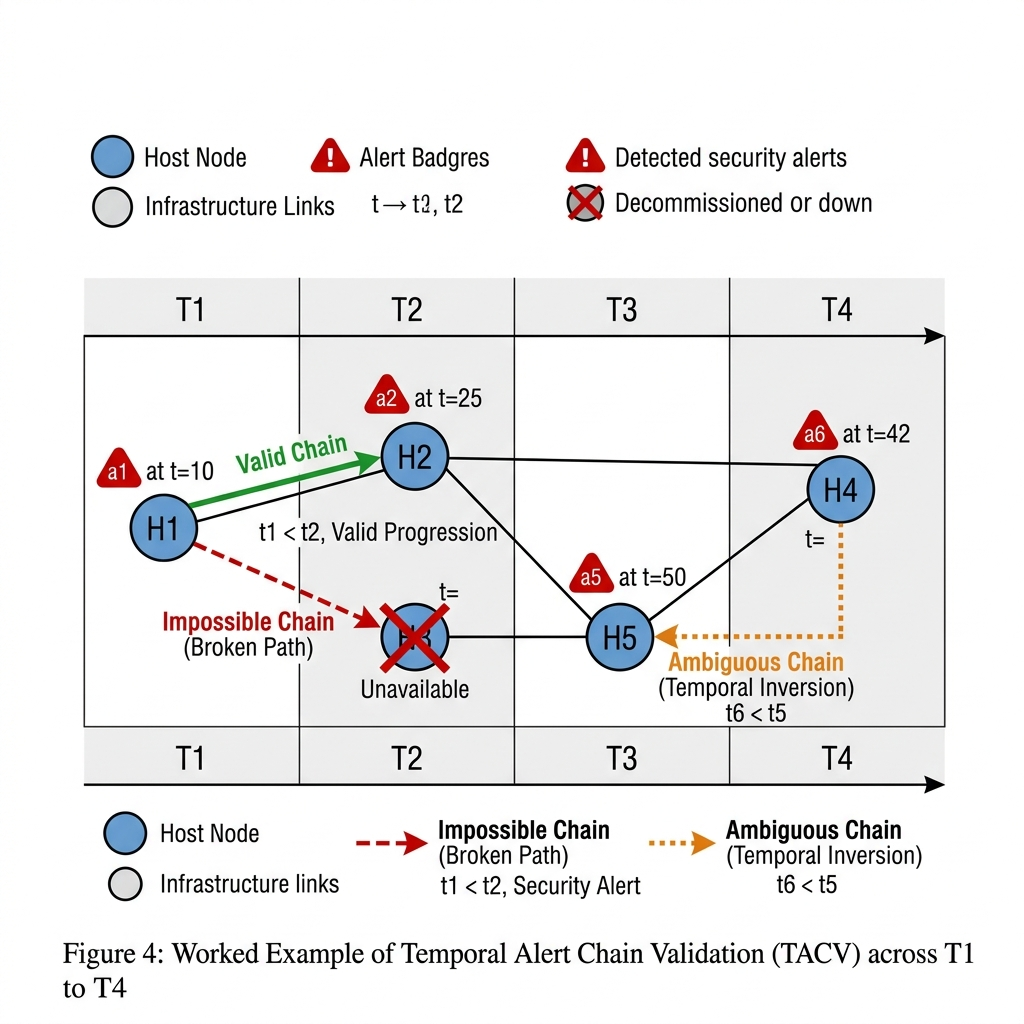
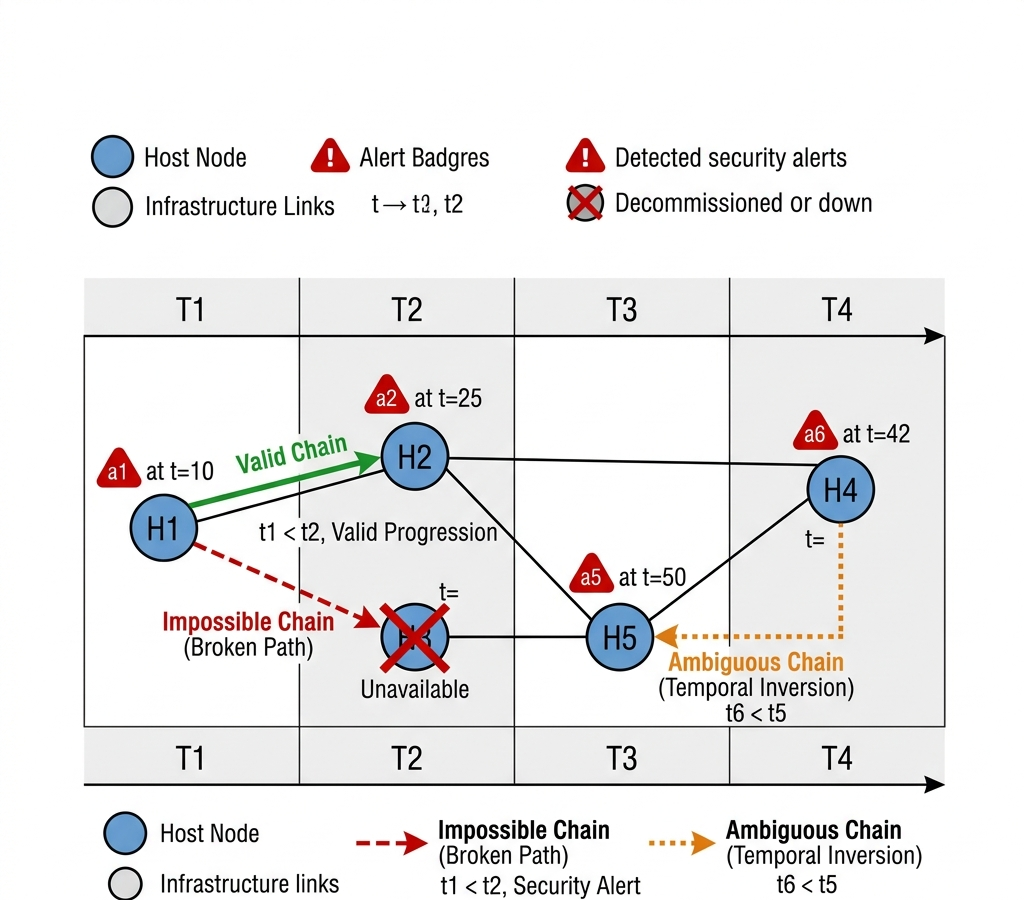
feat: add research gap comparison table and update text with new figure references

Changed region(s): [[0.0625, 0.28, 0.9375, 1.0], [0.0625, 0.1244, 0.5, 0.2489], [0.5312, 0.1244, 0.8438, 0.2489]]

diff --git a/author.tex b/author.tex
@@ -106,7 +106,7 @@ Attack graphs have subsequently been employed in numerous security applications,
 
 Despite these advantages, conventional attack graphs share an important assumption: they are generated from a single snapshot of the network and are treated as valid throughout the analysis period. Consequently, host availability, network connectivity, vulnerability states, and access privileges are implicitly assumed to remain unchanged after graph construction. While this assumption is often acceptable for offline risk assessment, it becomes increasingly unrealistic in modern enterprise environments where virtual machines are dynamically instantiated, cloud services migrate, vulnerabilities are patched, and network policies evolve continuously. Under such conditions, an attack path that exists at one point in time may disappear shortly afterwards, while entirely new attack paths may emerge as the network evolves.
 
-This limitation has motivated two complementary research directions. The first incorporates attack graphs into intrusion detection systems to improve alert correlation and attack prediction using structural information derived from the graph. The second extends attack graphs themselves by explicitly modeling temporal changes in the attack surface. The former is reviewed in the following subsection, while the latter is discussed in Section~\ref{sec:related-work}
+This limitation has motivated two complementary research directions. The first incorporates attack graphs into intrusion detection systems to improve alert correlation and attack prediction using structural information derived from the graph. The second extends attack graphs themselves by explicitly modeling temporal changes in the attack surface. The former is reviewed in the following subsection, while the latter is discussed in the subsequent subsection.
 
 \subsection{Attack Graph-Based Intrusion Detection}
 
@@ -182,6 +182,28 @@ This paper addresses this gap through \textbf{TAG-IDS}, a context-aware intrusio
     \item \textbf{Temporal Blind Spot Quantification (TBSQ)}, which identifies hosts and attack paths that remain insufficiently monitored as the attack surface evolves, enabling analysts to improve monitoring coverage proactively.
 \end{enumerate}
 
+Table~\ref{tab:gap-comparison} summarizes how TAG-IDS differentiates itself from existing research domains by uniquely combining temporal attack surface evolution with operational IDS validation.
+
+\begin{table}[ht!]
+\centering
+\caption{Qualitative comparison of TAG-IDS against existing research domains.}
+\label{tab:gap-comparison}
+\footnotesize
+\begin{tabularx}{\textwidth}{@{} l *{5}{>{\centering\arraybackslash}X} @{}}
+\toprule
+\textbf{Framework Category} & \textbf{Graph} & \textbf{Evolving} & \textbf{Alert} & \textbf{Alert} & \textbf{Coverage} \\
+ & \textbf{Reasoning} & \textbf{Network} & \textbf{Validation} & \textbf{Triage} & \textbf{Gaps} \\
+\midrule
+SIEM Heuristics \cite{1366134,s22041494} & No & No & No & No (CVSS) & No \\
+Static AG-IDS \cite{Roschke2010,Angelini2019} & Yes & No & Yes (Static) & Partial (Static) & No \\
+Temporal AGs \cite{ENOCH2019102448,Gain2023} & Yes & Yes & No (No IDS) & No & No \\
+GNN-based IDS \cite{Friji2023,Sun2024} & Yes & Partial & No (Stat.) & No & No \\
+\midrule
+\textbf{TAG-IDS (Proposed)} & \textbf{Yes} & \textbf{Yes} & \textbf{Yes (Dyn.)} & \textbf{Yes (Dyn.)} & \textbf{Yes (Dyn.)} \\
+\bottomrule
+\end{tabularx}
+\end{table}
+
 By integrating temporal attack graph reasoning directly into operational IDS workflows, TAG-IDS extends Temporal Attack Graphs from descriptive security models into actionable decision-support mechanisms for alert validation, prioritization, and security monitoring. This capability complements existing IDS technologies while addressing an aspect of intrusion analysis that remains largely unexplored in the current literature.
 
 \section{Proposed TAG-IDS Framework}
@@ -213,7 +235,7 @@ Conventional IDS correlation mechanisms assume that alerts generated within a sh
 
 \paragraph{Problem definition.} Let $A = \{a_1, \ldots, a_n\}$ be the ordered set of IDS alerts generated during the monitoring period, where each alert $a_i = (t_i, s_i, d_i, \tau_i, \sigma_i)$ records a timestamp $t_i$, source host $s_i$, destination host $d_i$, attack category $\tau_i$, and severity $\sigma_i$. For a candidate pair $(a_i, a_j)$, TACV determines whether an attacker could feasibly traverse the evolving attack surface from $d_i$ to $s_j$ through a valid attack path in the TAG — rather than relying on the proxy test $|t_j - t_i| < \Delta$ used by conventional correlators.
 
-\paragraph{Candidate pair generation.} To bound computational cost, TACV first restricts attention to pairs within a configurable temporal threshold: $P = \{(a_i, a_j) \mid 0 < t_j - t_i \le \Delta\}$. This threshold reduces the candidate set for efficiency only; it does not itself determine correlation, which is decided entirely by the structural validation step below.
+\paragraph{Candidate pair generation.} To bound computational cost, TACV (Figure \ref{fig:tag-example}) first restricts attention to pairs within a configurable temporal threshold: $P = \{(a_i, a_j) \mid 0 < t_j - t_i \le \Delta\}$. This threshold reduces the candidate set for efficiency only; it does not itself determine correlation, which is decided entirely by the structural validation step below.
 
 \paragraph{Temporal structural validation.} For a candidate pair $(a_i, a_j)$ with $t_i \in w_p$ and $t_j \in w_q$, TACV identifies the corresponding attack graphs $G_p^a$ and $G_q^a$. If $p = q$, validation proceeds directly within $G_p^a$; otherwise TACV evaluates path existence across the sequence of intermediate windows $G_p^a, G_{p+1}^a, \ldots, G_q^a$. The pair is structurally feasible if there exists a path $\pi = (v_1, \ldots, v_k)$ originating at $d_i$, terminating at $s_j$, and remaining temporally valid throughout the intermediate windows, i.e., $\pi \subseteq \bigcup_{r=p}^{q} G_r^a$. Path existence is determined via graph traversal (Neo4j in our implementation).
 
@@ -287,7 +309,7 @@ We simulate a tiered enterprise network topology across four discrete time windo
 
 \subsection{Threat Model}
 
-We assume a remote network attacker who gains initial access to a single host and progresses laterally by exploiting known vulnerabilities (CVEs) along reachable network paths. The attacker is assumed to operate within the connectivity and privilege constraints modeled by the TAG: lateral movement requires a temporally valid exploit path between the source and destination hosts during the observation window in which movement occurs. We do not model zero-day exploits, insider threats with pre-existing credentials, or out-of-band channels (e.g., physical access, social engineering). Consequently, TAG-IDS's structural validation is sound with respect to the modeled attack surface but does not cover attack vectors that bypass the network topology entirely. This assumption directly relates to the TAG completeness caveat discussed in section \ref{sec:limitations}, if the infrastructure telemetry feeding the TAG is incomplete, attack paths outside the model could be silently missed.
+We assume a remote network attacker who gains initial access to a single host and progresses laterally by exploiting known vulnerabilities (CVEs) along reachable network paths. The attacker is assumed to operate within the connectivity and privilege constraints modeled by the TAG: lateral movement requires a temporally valid exploit path between the source and destination hosts during the observation window in which movement occurs. We do not model zero-day exploits, insider threats with pre-existing credentials, or out-of-band channels (e.g., physical access, social engineering). Consequently, TAG-IDS's structural validation is sound with respect to the modeled attack surface but does not cover attack vectors that bypass the network topology entirely. This assumption directly relates to the TAG completeness caveat discussed in \S\ref{sec:limitations}, if the infrastructure telemetry feeding the TAG is incomplete, attack paths outside the model could be silently missed.
 
 \subsection{Baselines}
 
@@ -308,9 +330,7 @@ For each configuration, we regress the CVSS-only severity score against STS and 
 
 \subsection{Promotion and Demotion of Alerts}
 
-We report the practical consequence of this gap by ranking alerts under both scoring schemes and measuring rank divergence. Across configurations, approximately 20--28\% of alerts are \emph{promoted} (ranked meaningfully higher by STS than by CVSS alone) and approximately 57--68\% are \emph{demoted} (ranked meaningfully lower). This asymmetry reflects the structural nature of enterprise risk. Severity scores are broadly distributed across all alerts, whereas structural importance is concentrated on a small set of chokepoint nodes. Consequently, most alerts, including many HIGH- and CRITICAL-severity events located on structurally peripheral hosts, are demoted relative to their nominal severity. Conversely, a smaller set of LOW- and MEDIUM-severity alerts on structurally central or persistent nodes are promoted above their nominal severity.
-
-Table \ref{tab:sts-example} shows a representative promotion/demotion pair from a single configuration, illustrating the mechanism: a MEDIUM-severity alert on a high-betweenness, path-critical, persistently exposed host is promoted well above several CRITICAL-severity alerts on structurally isolated hosts.
+We report the practical consequence of this gap by ranking alerts under both scoring schemes and measuring rank divergence. Across configurations, approximately 20--28\% of alerts are \emph{promoted} (ranked meaningfully higher by STS than by CVSS alone) and approximately 57--68\% are \emph{demoted} (ranked meaningfully lower). This asymmetry reflects the structural nature of enterprise risk. Severity scores are broadly distributed across all alerts, whereas structural importance is concentrated on a small set of chokepoint nodes. Consequently, most alerts, including many HIGH- and CRITICAL-severity events located on structurally peripheral hosts, are demoted relative to their nominal severity. Conversely, a smaller set of LOW- and MEDIUM-severity alerts on structurally central or persistent nodes are promoted above their nominal severity. Table~\ref{tab:sts-example} shows a representative promotion/demotion pair from a single configuration, illustrating the mechanism: a MEDIUM-severity alert on a high-betweenness, path-critical, persistently exposed host is promoted well above several CRITICAL-severity alerts on structurally isolated hosts. Figure~\ref{fig:sts-scatter} further illustrates this rank divergence across a broader alert sample.
 
 \begin{table}[t]
 \centering
@@ -337,7 +357,7 @@ Demoted alert & CRITICAL & 1 & 61 \\
 
 Taken together, these results support the motivating claim of Section \ref{sec:related-work}: severity-only triage systematically misallocates analyst attention in both directions. It over-prioritizes CRITICAL- and HIGH-severity alerts on structurally dead-end hosts that an attacker has little incentive or ability to leverage further, and it under-prioritizes MEDIUM- and even LOW-severity alerts that sit on chokepoints connecting multiple attack stages. Because STS is computed directly from the same Temporal Attack Graph used by TACV, promoted and demoted rankings update automatically as the network evolves across observation windows, without requiring the severity database or scoring policy itself to change.
 
-We note one limitation of the present evaluation: the $r^2$ range (3.0--3.7\%) is computed on our simulated topologies and alert distributions. Although the specific magnitude of severity's explanatory power may vary in networks with different connectivity patterns or vulnerability distributions, the qualitative finding that severity and structural risk represent largely independent signals is expected to generalize, as discussed further in Section \ref{sec:limitations}.
+We note one limitation of the present evaluation: the $r^2$ range (3.0--3.7\%) is computed on our simulated topologies and alert distributions. Although the specific magnitude of severity's explanatory power may vary in networks with different connectivity patterns or vulnerability distributions, the qualitative finding that severity and structural risk represent largely independent signals is expected to generalize, as discussed further in \S\ref{sec:limitations}.
 
 \section{Temporal Blind Spots: Empirical Results}
 \label{sec:tbsq-results}
@@ -346,7 +366,7 @@ We evaluate Temporal Blind Spot Quantification to answer a question static cover
 
 \subsection{Monitoring Coverage Is Incomplete and Shifts Across Windows}
 
-Across our three core configurations (20, 30, and 40~hosts), average IDS coverage (the fraction of TAG nodes with at least one mapped alert in a given window) ranged from approximately 50\% to 64\%, with blind-spot ratios correspondingly ranging from roughly 36\% to 50\% depending on configuration. Within a single run, coverage is not static. Per-window blind-spot ratios varied by as much as 30 percentage points across the four observation windows of a given configuration (for example, one representative run showed $BSR_t$ ranging from 33\% in an early window to 67\% in a later window as hosts joined and left the network). This confirms the motivating premise of Section \ref{sec:related-work}: a coverage assessment performed against a single network snapshot does not describe monitoring effectiveness across the observation period. The Temporal Blind Spot Index ($TBSI$) summarizes this shifting coverage into a single per-configuration metric because no individual window's coverage is representative of the whole.
+Across our three core configurations (20, 30, and 40~hosts), average IDS coverage (the fraction of TAG nodes with at least one mapped alert in a given window) ranged from approximately 50\% to 64\%, with blind-spot ratios correspondingly ranging from roughly 36\% to 50\% depending on configuration. Within a single run, coverage is not static (Figure \ref{fig:bsr-trend}). Per-window blind-spot ratios varied by as much as 30 percentage points across the four observation windows of a given configuration (for example, one representative run showed $BSR_t$ ranging from 33\% in an early window to 67\% in a later window as hosts joined and left the network). This confirms the motivating premise of Section \ref{sec:related-work}: a coverage assessment performed against a single network snapshot does not describe monitoring effectiveness across the observation period. The Temporal Blind Spot Index ($TBSI$) summarizes this shifting coverage into a single per-configuration metric because no individual window's coverage is representative of the whole.
 
 \begin{figure}[ht!]
 \centering
@@ -357,7 +377,7 @@ Across our three core configurations (20, 30, and 40~hosts), average IDS coverag
 
 \subsection{Path-Critical Blind Spots: A Caveat on Our Evaluation Topology}
 
-TBSQ distinguishes total blind spots from \emph{path-critical} blind spots, which are unmonitored nodes situated on a TACV-validated attack path, representing the operationally significant subset of coverage gaps. In our evaluation, path-critical blind spots coincided with the full blind-spot set in every configuration tested (100\% overlap). This outcome stems from the topological pruning applied prior to simulation, which removes isolated nodes and retains densely interconnected hosts. In such a densely pruned topology, an unmonitored node is highly likely to lie on a feasible attack path. We report this result as observed, but highlight it as a property of our evaluation topology rather than a universal claim. In less aggressively pruned or more sparsely connected real-world networks, $PC(v)$ is expected to discriminate between path-critical and peripheral blind spots, causing the two quantities to diverge, as discussed further in Section \ref{sec:limitations}.
+TBSQ distinguishes total blind spots from \emph{path-critical} blind spots, which are unmonitored nodes situated on a TACV-validated attack path, representing the operationally significant subset of coverage gaps. In our evaluation, path-critical blind spots coincided with the full blind-spot set in every configuration tested (100\% overlap). This outcome stems from the topological pruning applied prior to simulation, which removes isolated nodes and retains densely interconnected hosts. In such a densely pruned topology, an unmonitored node is highly likely to lie on a feasible attack path. We report this result as observed, but highlight it as a property of our evaluation topology rather than a universal claim. In less aggressively pruned or more sparsely connected real-world networks, $PC(v)$ is expected to discriminate between path-critical and peripheral blind spots, causing the two quantities to diverge, as discussed further in \S\ref{sec:limitations}.
 
 \subsection{Coverage Gaps Do Not Track Sensor Count}
 
@@ -406,7 +426,7 @@ The valid-chain rate varied substantially across configurations, from 11.6\% ($n
 
 \subsection{Baseline Comparison}
 
-We compare TAG-IDS against standard heuristic correlators: time-proximity windows (15, 30, 60, and 120~minutes) and CVSS severity thresholds (LOW, MEDIUM, HIGH, CRITICAL). The primary metric is the False Correlation Rate (FCR): the percentage of pairs that a baseline incorrectly links, which the TAG proves are structurally impossible.
+We compare TAG-IDS against standard heuristic correlators: time-proximity windows (15, 30, 60, and 120 minutes) and CVSS severity thresholds (LOW, MEDIUM, HIGH, CRITICAL). The primary metric is the False Correlation Rate (FCR): the percentage of pairs that a baseline incorrectly links, which the TAG proves are structurally impossible. These baseline comparisons are visualized in Figure \ref{fig:fcr-bar} and summarized in Table \ref{tab:fcr}.
 
 \begin{table}[t]
 \centering

diff --git a/generate_tables.py b/generate_tables.py
@@ -1,0 +1,58 @@
+import os
+import re
+
+runs = [20, 30, 40, 50, 60, 70, 80, 90, 100]
+
+table2 = []
+table3 = []
+table4 = []
+table5 = []
+
+for n in runs:
+    with open(f"/Users/ayangain/repos/TAG-IDS/ids_outputs/run_output{n}.txt", "r") as f:
+        content = f.read()
+        
+    # Table 2: Avg. Coverage Avg. BSR Path-Critical %
+    # Extract: - Blind spots: avg_blind_spot_ratio=36.8% avg_coverage=63.2%
+    bs_match = re.search(r"avg_blind_spot_ratio=([0-9.]+)%\s+avg_coverage=([0-9.]+)%", content)
+    bsr = bs_match.group(1)
+    cov = bs_match.group(2)
+    # path-critical is 100% in all
+    table2.append(f"{n} & {cov}\\% & {bsr}\\% & 100\\% \\\\")
+    
+    # Table 3: Pairs Valid (%) Impossible (%) Ambiguous (%)
+    # Extract: - Alert chains: total_pairs=69 valid=11 impossible=49 ambiguous=9
+    chain_match = re.search(r"total_pairs=(\d+)\s+valid=(\d+)\s+impossible=(\d+)\s+ambiguous=(\d+)", content)
+    tp = int(chain_match.group(1))
+    v = int(chain_match.group(2))
+    i = int(chain_match.group(3))
+    a = int(chain_match.group(4))
+    v_pct = (v/tp)*100
+    i_pct = (i/tp)*100
+    a_pct = (a/tp)*100
+    table3.append(f"{n} & {tp} & {v} ({v_pct:.1f}) & {i} ({i_pct:.1f}) & {a} ({a_pct:.1f}) \\\\")
+    
+    # Table 4: Best Baseline Best-BL FCR Static FCR TAG-IDS FCR
+    # Extract: - Baselines: lowest-FCR=time_15min F1=0.293 FCR=70.3% MCR=0.0%
+    base_match = re.search(r"lowest-FCR=([^\s]+).*?FCR=([0-9.]+)%", content)
+    best_bl = base_match.group(1).replace("_", "\\_")
+    best_fcr = base_match.group(2)
+    # Extract: Static TAG snapshot FCR  : 71.0%
+    stat_match = re.search(r"Static TAG snapshot FCR\s*:\s*([0-9.]+)%", content)
+    stat_fcr = stat_match.group(1)
+    table4.append(f"{n} & {best_bl} & {best_fcr}\\% & {stat_fcr}\\% & 0\\% \\\\")
+    
+    # Table 5: Pairs Imposs. % Best-BL FCR Static FCR STS r2 Avg. BSR
+    # Extract r2
+    r2_match = re.search(r"Explained Variance \(r.\): ([0-9.]+)", content)
+    r2 = float(r2_match.group(1)) * 100
+    table5.append(f"{n} & {tp} & {i_pct:.1f}\\% & {best_fcr}\\% & {stat_fcr}\\% & {r2:.1f}\\% & {bsr}\\% \\\\")
+    
+print("--- TABLE 2 ---")
+print("\n".join(table2))
+print("\n--- TABLE 3 ---")
+print("\n".join(table3))
+print("\n--- TABLE 4 ---")
+print("\n".join(table4))
+print("\n--- TABLE 5 ---")
+print("\n".join(table5))
